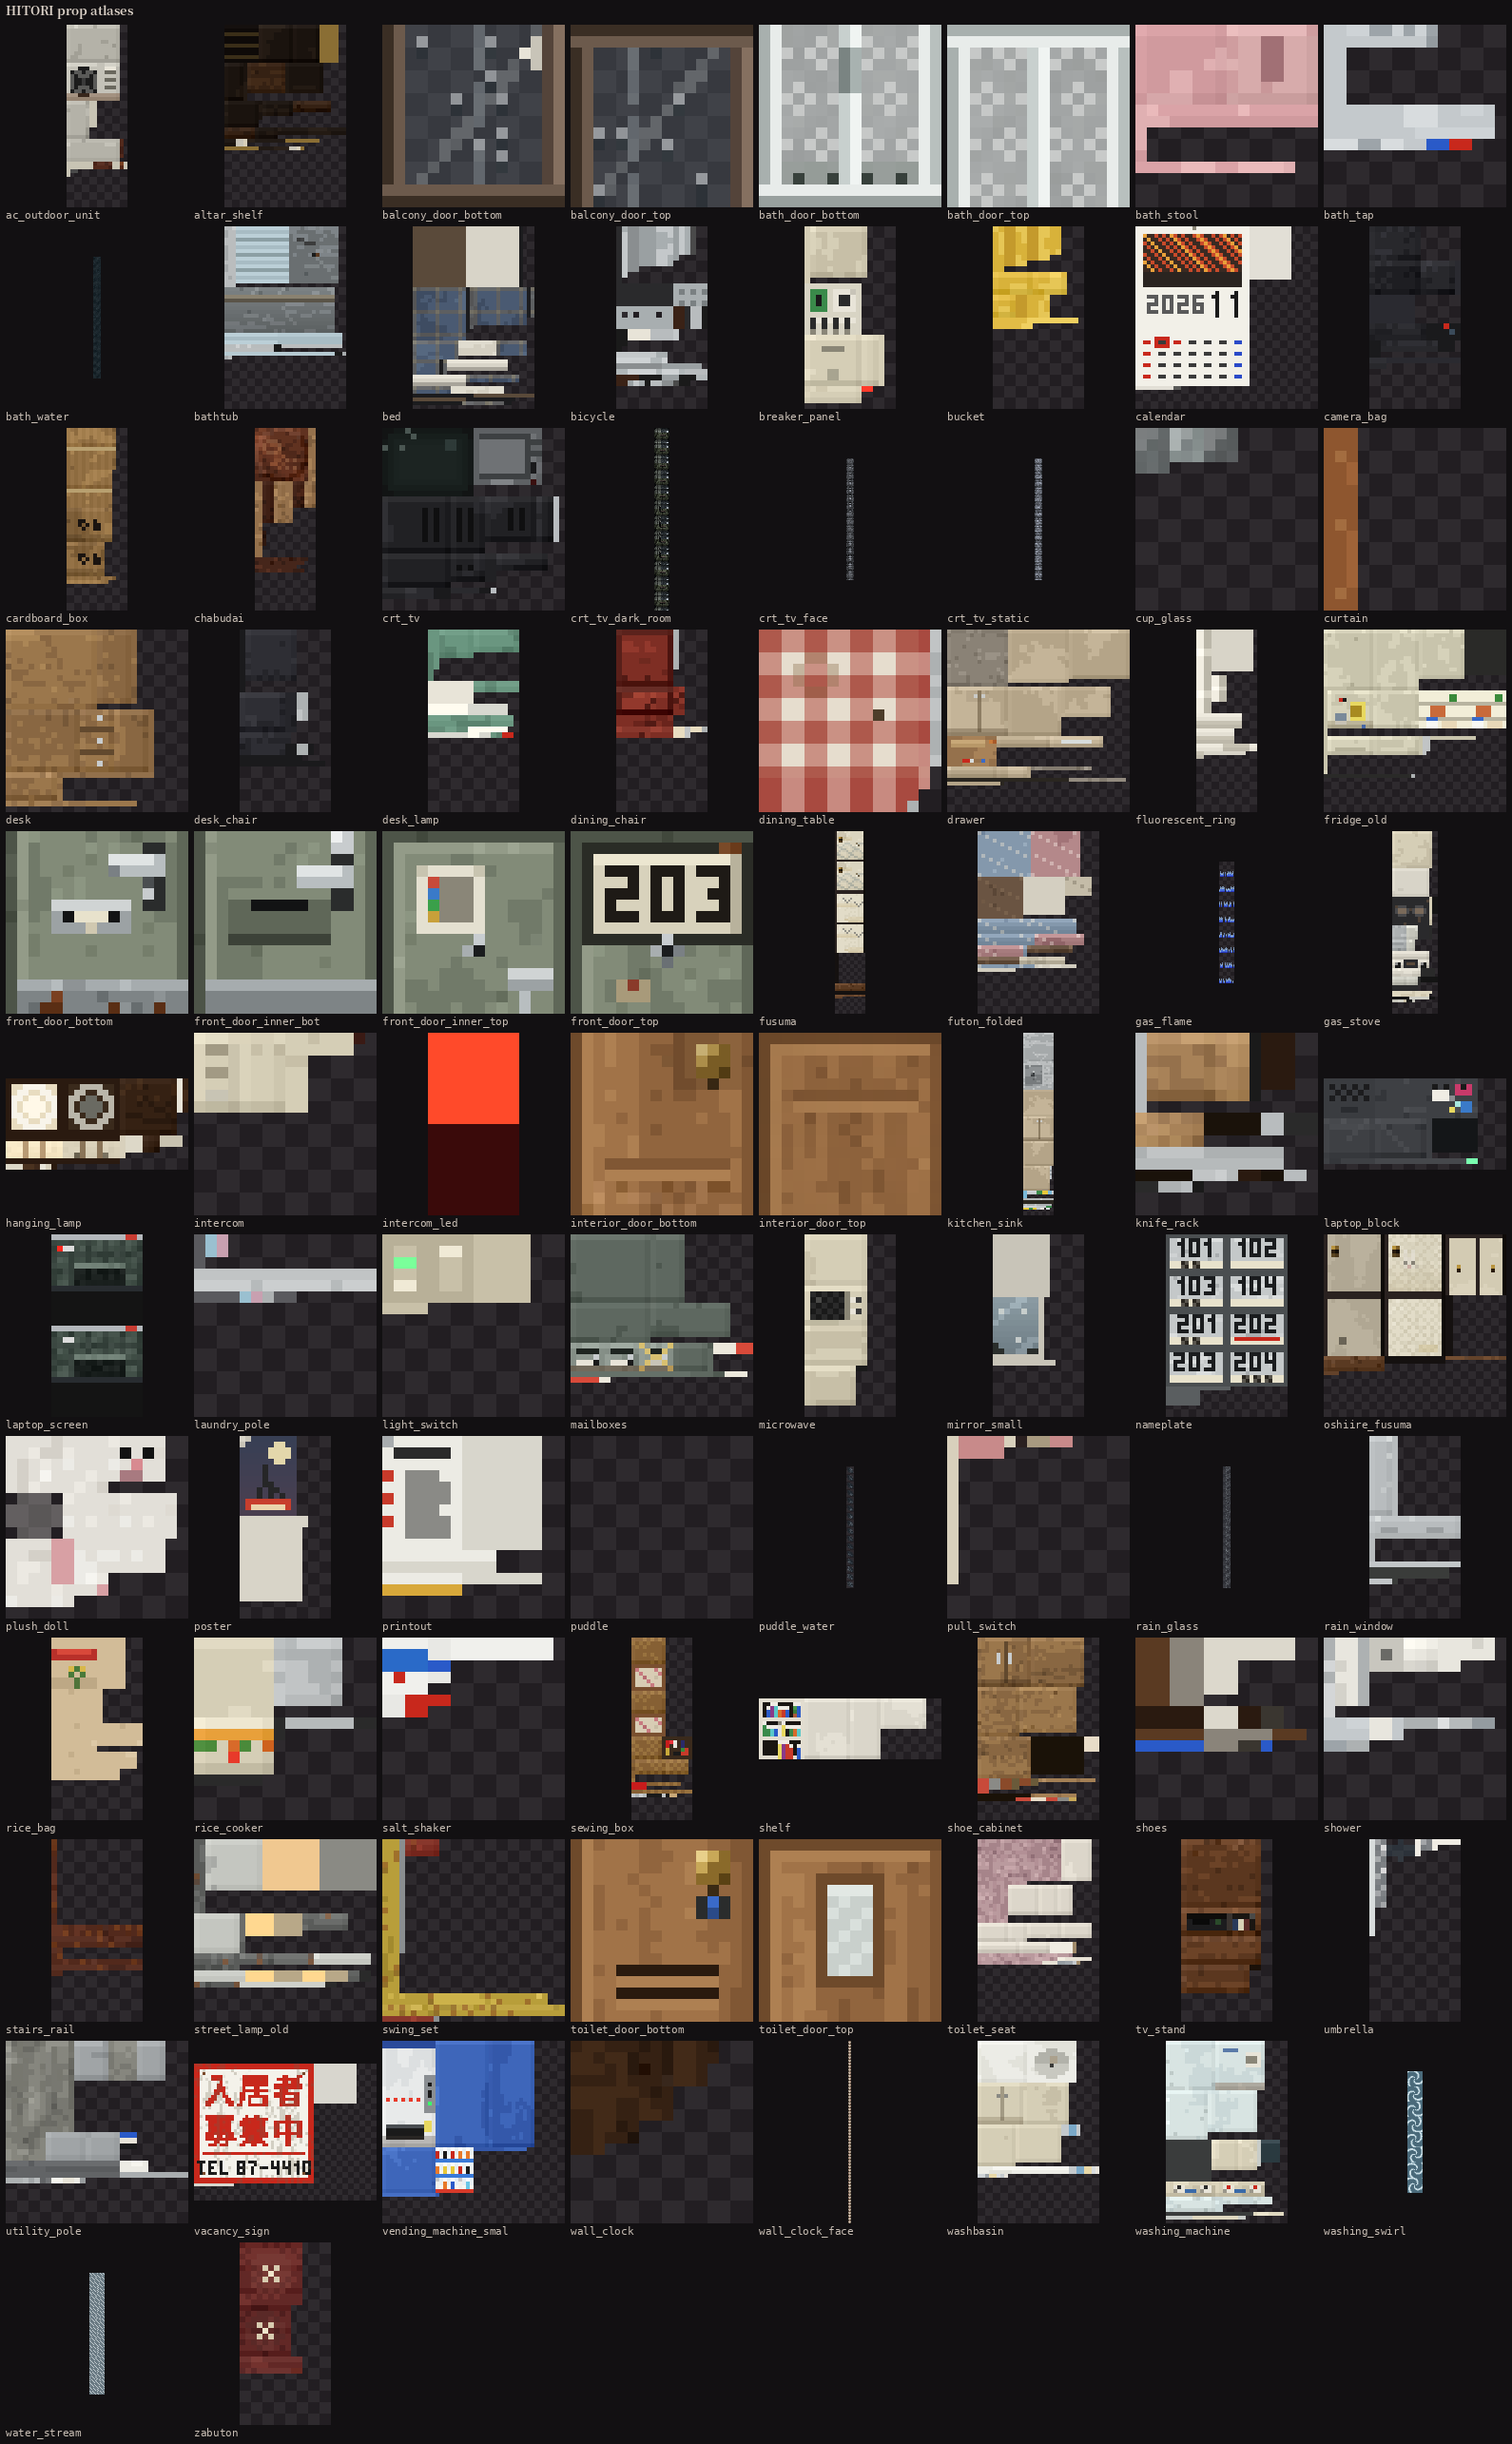
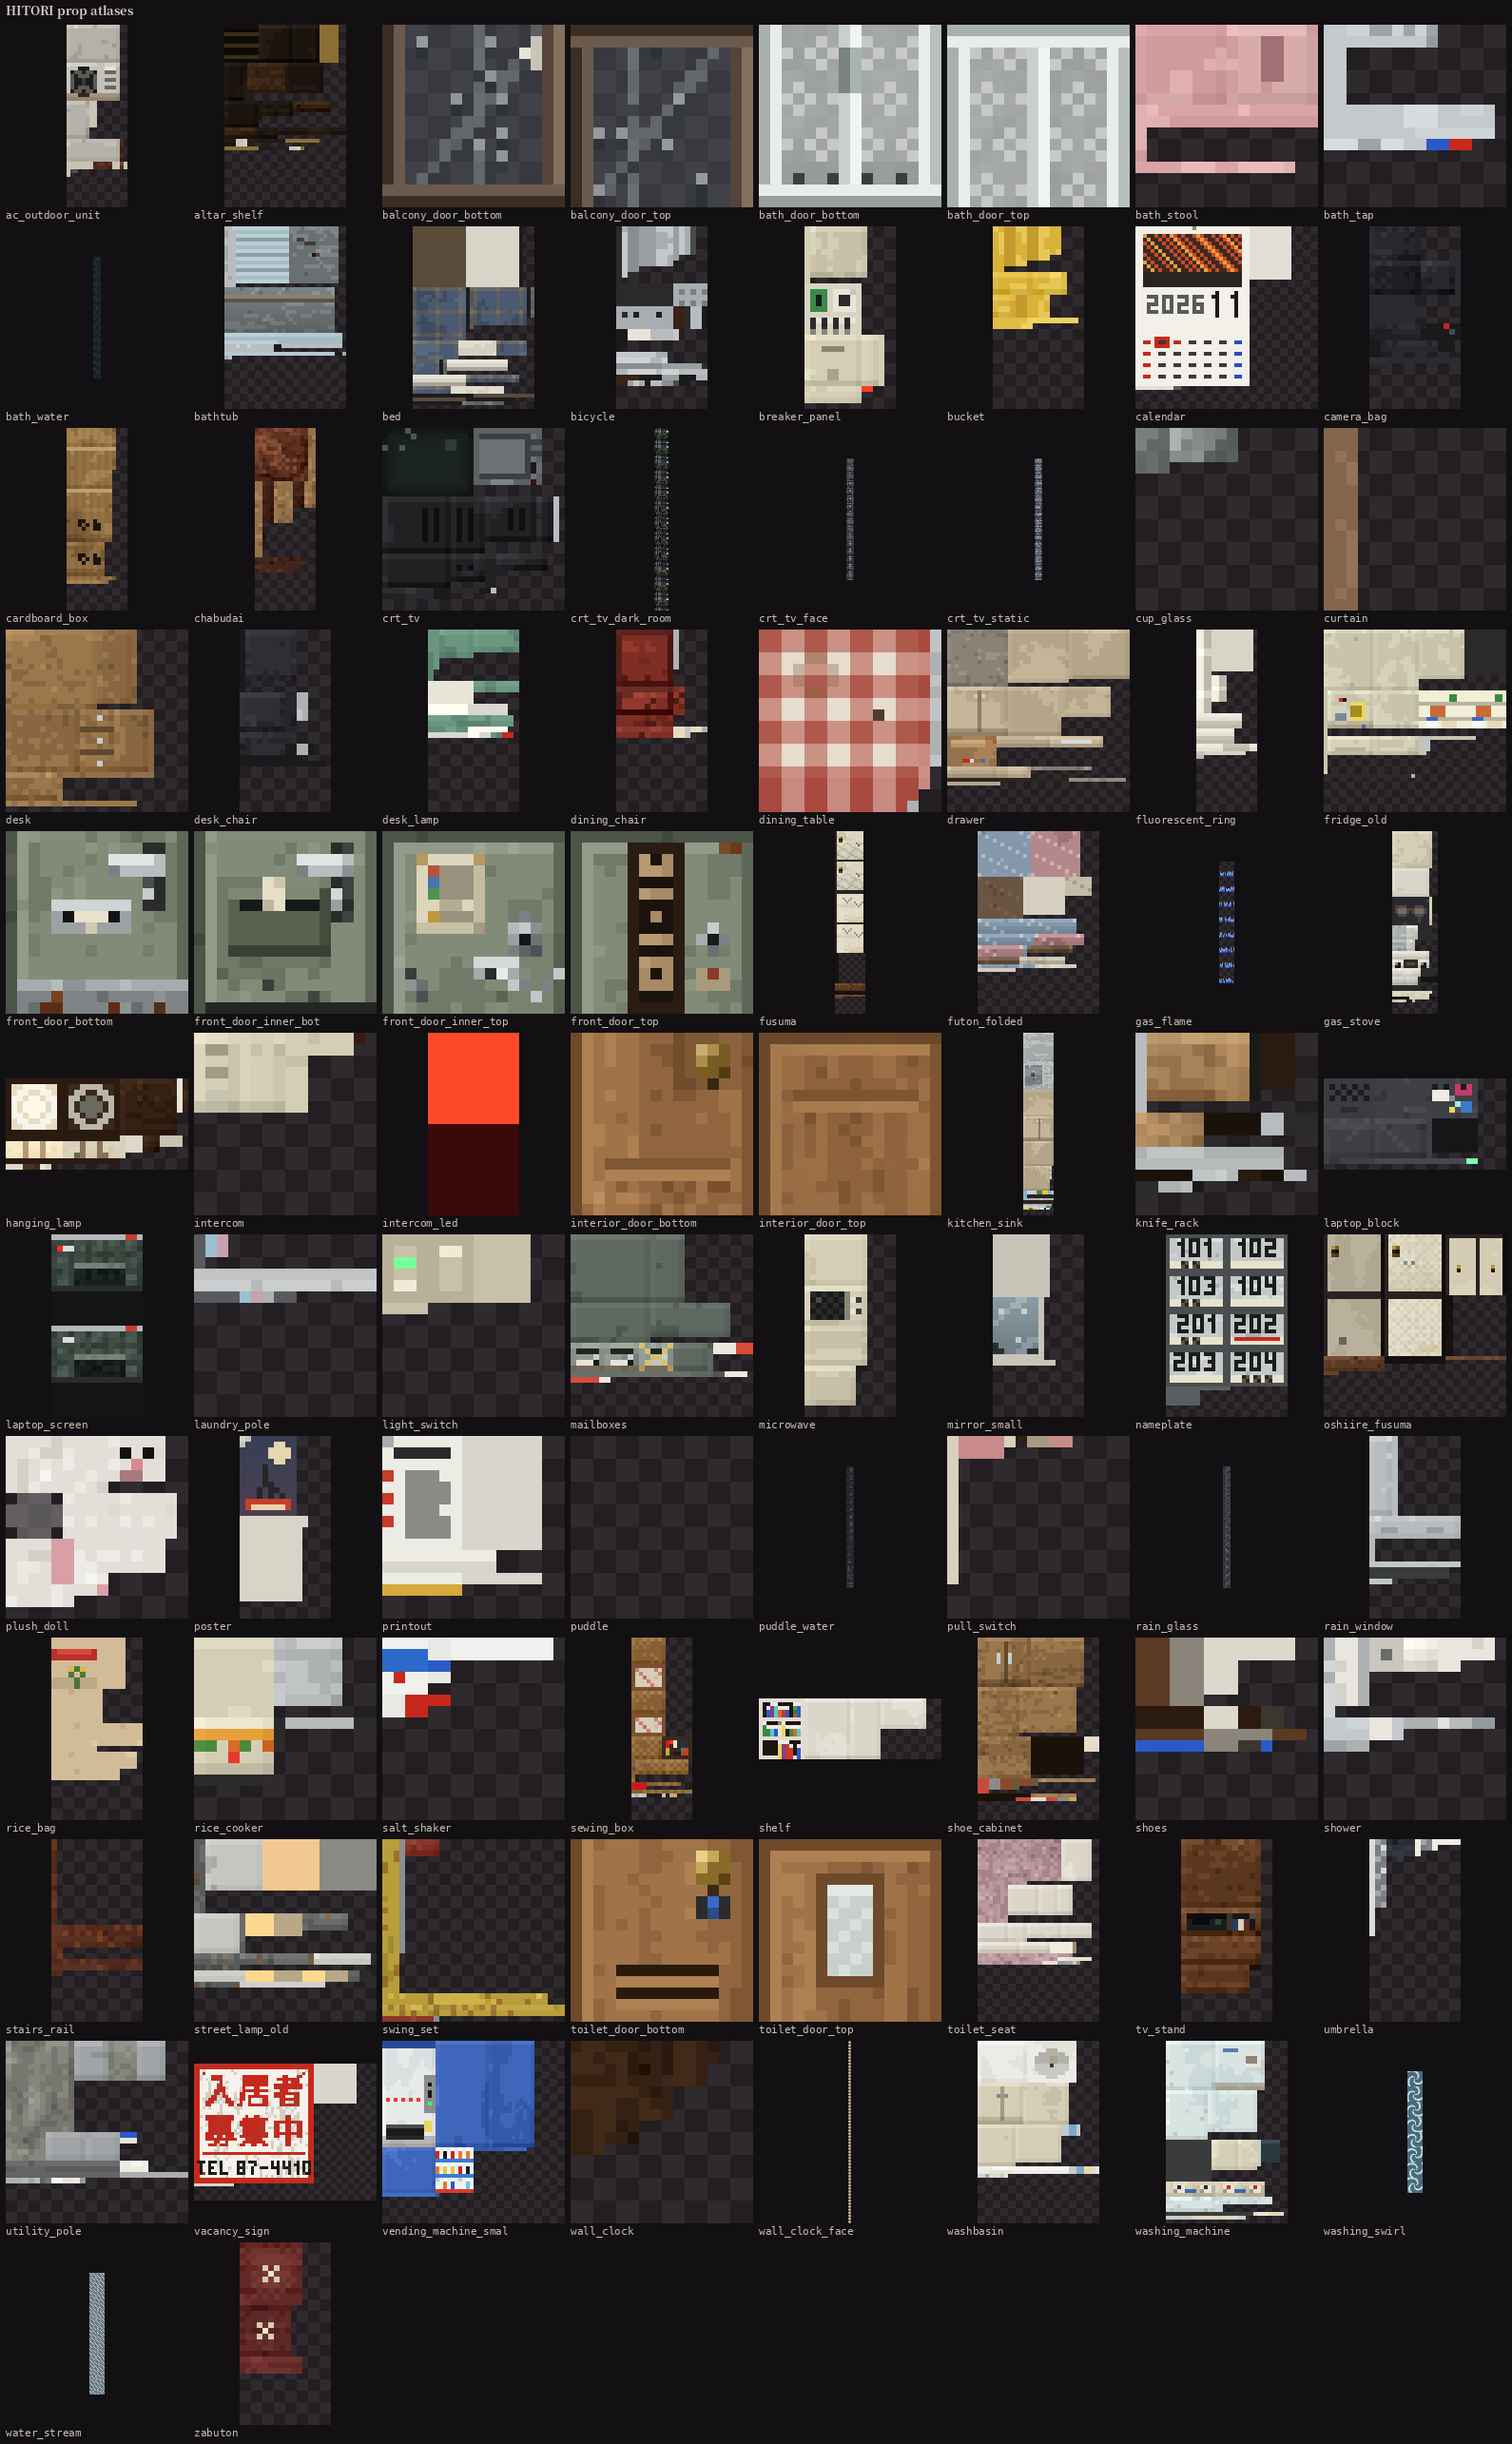
Art: the genkan side of 203's steel door (front_door_inner_bottom/_top) for the world's two-faced door model
- inner top: the eyepiece of the peephole, the door chain hooked on its slide rail, a yellowed garbage-day sheet
  taped up, a coat hook; inner bottom: the lever with the thumb-turn turned upright, the steel newspaper box behind
  the slot with the flyer's corner, shoe scuffs, the rubber seal. Through-the-leaf parts sit on the outer face's
  columns; nothing reads as text (the inner face shows mirrored with 203's left hinge).
- previews: the scenes render 203's door as the world's two_face_door (other flats: unit_door), the opening at the
  genkan's level; the genkan view now stands on the tiles facing the door; the door line-up shows both faces.
- check.py: the two textures are required (world-only textures).

Claude-Session: https://claude.ai/code/session_017h8AWA8SMb3MbjFEftA5Gv

Changed region(s): [[0.2774, 0.3424, 0.5239, 0.4358], [0.1233, 0.3424, 0.2465, 0.4358], [0.8629, 0.1556, 0.9245, 0.249]]

diff --git a/tools/art/hk_scene.py b/tools/art/hk_scene.py
@@ -95,11 +95,37 @@ def vanilla_door(tex, hinge='left'):
                       'east': {'uv': [16, 0, 0, 16] if left else [0, 0, 16, 16], 'texture': '#b'}}}]}
 
 
-def door(S, name, x, y, z, facing, hinge='left'):
-    """A closed vanilla-style door (blockstate y rotation of gen_assets: east 0, south 90, west 180, north 270)."""
+def two_face_door(outer, inner, hinge='left', opened=False):
+    """The world's front_door model (gen_assets.two_face_door): the vanilla 3 px panel with #outer on its west face
+    (outside when closed) and #inner on its east face. Opened, the panel's faces swap (the blockstate turns the
+    panel a quarter the other way round its hinge), so #outer goes east and #inner west."""
+    left = (hinge == 'left') != opened
+    ou = [0, 0, 16, 16] if left else [16, 0, 0, 16]
+    iu = [16, 0, 0, 16] if left else [0, 0, 16, 16]
+    w, e = ('#i', '#o') if opened else ('#o', '#i')
+    to, ti = 'hitori:block/' + outer, 'hitori:block/' + inner
+    return {'textures': {'o': to, 'i': ti, 'particle': to}, 'render_type': 'minecraft:cutout', 'elements': [{
+        'from': [0, 0, 0], 'to': [3, 16, 16],
+        'faces': {'west': {'uv': ou, 'texture': w}, 'east': {'uv': iu, 'texture': e},
+                  'north': {'uv': [0, 0, 3, 16], 'texture': '#o'}, 'south': {'uv': [13, 0, 16, 16], 'texture': '#o'},
+                  'up': {'uv': [0, 0, 3, 16], 'texture': '#o'}, 'down': {'uv': [13, 0, 16, 16], 'texture': '#o'}}}]}
+
+
+def door(S, name, x, y, z, facing, hinge='left', opened=False):
+    """A vanilla-style door (blockstate y rotation of gen_assets: east 0, south 90, west 180, north 270; opened +90
+    for a left hinge, +270 for a right one). front_door has two faces (the world's two_face_door); unit_door is the
+    world's door of the other flats (apartment_door_metal on both halves)."""
     deg = {'east': 0, 'south': 90, 'west': 180, 'north': 270}[facing]
+    if opened:
+        deg = (deg + (90 if hinge == 'left' else 270)) % 360
     for k, half in enumerate(('bottom', 'top')):
-        S.extra.append((vanilla_door(f'{name}_{half}', hinge), place_deg(x, y + k, z, deg)))
+        if name == 'front_door':
+            m = two_face_door(f'front_door_{half}', f'front_door_inner_{half}', hinge, opened)
+        elif name == 'unit_door':
+            m = vanilla_door('apartment_door_metal', hinge)
+        else:
+            m = vanilla_door(f'{name}_{half}', hinge)
+        S.extra.append((m, place_deg(x, y + k, z, deg)))
 
 
 def stairs_model(tex):
@@ -214,8 +240,9 @@ def apartment(S, x0=0, x1=11, z0=0, z1=13, ceiling=True, tatami_axis=None):
             # wall-ish cells: build 3 high, each face facing a room gets that room's wall texture
             openings = {'d': 2, 'D': 2, 'f': 2, 'W': 2}
             hole = openings.get(ch, 0)
+            lo = -1 if ch == 'D' else 0             # the front door stands on the genkan's level, a step down
             for y in range(-1, 4):
-                if y >= 0 and y < hole:
+                if lo <= y < lo + hole:
                     continue
                 faces = {}
                 for f, (dx, _, dz) in NB.items():
@@ -227,14 +254,16 @@ def apartment(S, x0=0, x1=11, z0=0, z1=13, ceiling=True, tatami_axis=None):
                     if nrm is None:
                         faces[f] = H + (OUTSIDE if nb is None else 'plaster_wall')
                     else:
-                        t = nrm.get('lower') if (y == 0 and nrm.get('lower')) else nrm['wall']
+                        t = nrm.get('lower') if (y == nrm.get('low', 0) and nrm.get('lower')) else nrm['wall']
                         faces[f] = H + t
                 S.cube(x, y, z, H + 'plaster_wall', **faces)
     # floors under the wall openings
     for z in range(z0, z1 + 1):
         for x in range(x0, x1 + 1):
-            if cell(x, z) in 'dDfW':
+            if cell(x, z) in 'dfW':
                 S.cube(x, -1, z, H + 'old_flooring')
+            elif cell(x, z) == 'D':
+                S.cube(x, -2, z, H + 'genkan_tile')
 
 
 def balcony_pane(S, x, y, z):
@@ -436,8 +465,10 @@ def scene_genkan():
     umbrella, the intercom and the breaker panel high on the wall; the hall's mirror."""
     S = full203()
     S.light((4.5, 2.6, 2.5), (1.0, 0.9, 0.75), 0.7, 3.0)
-    eye, tgt = (4.7, 1.62, 2.7), (2.0, -0.1, 0.6)
-    return pair(S.render(eye, tgt, fov=78), S.render(eye, tgt, night=True, exposure=1.6, fov=78), 'scene_genkan')
+    S.light((2.6, 1.3, 1.6), (1.0, 0.92, 0.8), 0.5, 2.0)          # the genkan's bare bulb
+    # standing on the genkan tiles with your back to the step, facing the door (its inner face: the chain is on)
+    eye, tgt = (3.45, 0.66, 2.8), (1.9, 0.05, 0.2)
+    return pair(S.render(eye, tgt, fov=80), S.render(eye, tgt, night=True, exposure=1.6, fov=80), 'scene_genkan')
 
 
 def scene_exterior():
@@ -480,8 +511,8 @@ def scene_exterior():
             S.cube(x, y, -3, H + 'concrete')
     for ux, k in doors2.items():
         if xa <= ux <= xb:
-            door(S, 'front_door', ux, 0, 0, 'north')
-            door(S, 'front_door', ux, -5, 0, 'north')
+            door(S, 'front_door' if k == 2 else 'unit_door', ux, 0, 0, 'south')     # 203's own door, outside north
+            door(S, 'unit_door', ux, -5, 0, 'south')
             S.model(f'nameplate_{4 + k}', ux + 1, 1, -1, 'south')
             S.model(f'nameplate_{k}', ux + 1, -4, -1, 'south')
             for wx in (ux + 4, ux + 5):
@@ -614,10 +645,11 @@ def scene_doors():
         S.cube(x, -1, -1, H + 'old_flooring')
         for y in range(0, 3):
             S.cube(x, y, 1, H + 'plaster_wall', north=H + ('wood_wainscot' if y == 0 else 'plaster_wall'))
-    names = ['front_door', 'interior_door', 'toilet_door', 'bath_door']
-    for i, d in enumerate(names):
-        for k, half in enumerate(('bottom', 'top')):
-            S.extra.append((vanilla_door(f'{d}_{half}'), place_deg(i * 1.5 - 0.5, k, 0, 270)))
+    # 203's steel door from the corridor (its outer face) and from the genkan (its inner face), then the others
+    entries = [('front_door', 'south', 13 / 16), ('front_door', 'north', 0), ('interior_door', 'north', 0),
+               ('toilet_door', 'north', 0), ('bath_door', 'north', 0)]
+    for i, (d, f, dz) in enumerate(entries):
+        door(S, d, i * 1.2 - 0.9, 0, dz, f)
     balcony_pane(S, 6.5, 0, -0.55)
     S.model('fusuma_lower_0', 7.5, 0, -0.45, 'north') if False else None
     for k, (nm, x) in enumerate((('fusuma', 7.0), ('oshiire_fusuma', 8.0))):

diff --git a/tools/art/hk_surfaces.py b/tools/art/hk_surfaces.py
@@ -698,7 +698,88 @@ def front_door_bottom():
     return a
 
 
-WOODPRINT = ramp(['#5a3c22', '#6e4a2b', '#805734', '#91653e', '#a17348', '#ae8052', '#ba8d5e'], 7)
+# The genkan side of 203's door (the world's two_face_door: #inner on the panel's other face). Same layout rule as the
+# outer face - hinge left, handle right, and everything that goes through the leaf (peephole, lever spindle, the
+# newspaper slot) on the same texture columns as outside. With 203's hinge on the left the inner face is seen
+# mirrored, so nothing here may read as text.
+@door_tex('front_door_inner_top')
+def front_door_inner_top():
+    """Upper half, inside: the peephole's eyepiece, the door chain hooked (sagging from its slide rail to the jamb
+    on the latch side - it is 3 a.m. and you are in), a garbage-day sheet taped up long ago (yellowed paper, the
+    colour-coded rows of 燃える/燃えない/資源/びん, the tape gone brown) and a coat hook."""
+    a = _steel_leaf(4121, True)
+    x, y = xy()
+    # cleaner than outside, but greasy around the handle side where hands go
+    dl(a, -0.03, (x >= 10) & (y >= 9) & (wrapn(4122, beta=1.2) > 0.2))
+    # the eyepiece: a wider chrome ring around a dark lens, a glint, the little swing cover's hinge above
+    for (cx, cy, c) in ((11, 9, '#9aa0a2'), (13, 9, '#6e7476'), (12, 8, '#c4c9cc'), (12, 10, '#5e6466'),
+                        (11, 8, '#b4babc'), (13, 8, '#8a9092'), (11, 10, '#7a8082'), (13, 10, '#4e5456')):
+        px(a, cx, cy, c)
+    px(a, 12, 9, '#141618')
+    px(a, 12, 7, '#7a8084')
+    # the chain's slide rail (a chrome plate with a dark slot) and the chain hooked across to the jamb (x 15)
+    rect(a, 8, 11, 11, 12, '#a4aaac')
+    hline(a, 8, 11, 11, '#d4d8d8')
+    hline(a, 9, 10, 12, '#2a2c2e')
+    px(a, 10, 12, '#e6eaea')                     # the knob in the slot
+    for (cx, cy) in ((11, 13), (12, 13), (13, 14), (14, 13), (15, 12)):
+        px(a, cx, cy, '#c2c8ca' if (cx % 2) else '#7c8284')
+    # the garbage-day sheet: yellowed paper, four colour rows (a dot and a ruled line each), brown tape corners
+    rect(a, 3, 2, 8, 8, '#ddd6bc')
+    vline(a, 8, 3, 8, '#c4bca0')
+    hline(a, 3, 8, 8, '#c8c0a4')
+    for yy, c in zip((3, 4, 5, 7), ('#b8503e', '#4a74b0', '#4a9452', '#c0983a')):
+        px(a, 4, yy, c)
+        hline(a, 5, 7, yy, '#9a927e')
+    hline(a, 5, 6, 6, '#b4ac94')
+    for (cx, cy) in ((3, 2), (8, 2)):
+        px(a, cx, cy, '#b49a62')
+    px(a, 8, 8, '#a89a7c')                       # the lower corner curling off the steel
+    # a small coat hook screwed on near the hinge, its shadow
+    px(a, 2, 12, '#3a3c3a')
+    px(a, 2, 13, '#8e9496')
+    px(a, 3, 13, '#6a7072')
+    px(a, 3, 14, '#4a5052')
+    return a
+
+
+@door_tex('front_door_inner_bottom')
+def front_door_inner_bottom():
+    """Lower half, inside: the lever and its tall escutcheon with the deadbolt's thumb-turn turned upright (locked),
+    the steel newspaper box behind the slot with the flyer's corner showing, scuffs from shoes, the rubber seal."""
+    a = _steel_leaf(4131, False)
+    x, y = xy()
+    # the escutcheon (same spindle as the outer lever) and the lever pointing toward the hinge
+    rect(a, 12, 1, 13, 7, '#2a2c2c')
+    vline(a, 13, 1, 7, '#3e4242')
+    rect(a, 9, 2, 13, 3, '#b8bec0')
+    hline(a, 9, 12, 2, '#e0e4e4')
+    px(a, 9, 3, '#7a8084')
+    px(a, 13, 3, '#8a9092')
+    # the thumb-turn below it, upright = locked
+    px(a, 12, 5, '#d4d8d8')
+    px(a, 12, 6, '#9aa0a2')
+    px(a, 13, 6, '#2a2c2c')
+    # the newspaper box behind the slot (x 4..10 y 6..8 outside): a steel pocket, open at its top, a flyer in it
+    rect(a, 3, 5, 11, 10, '#59614f')
+    hline(a, 3, 11, 5, '#7e8873')
+    vline(a, 11, 5, 10, '#454c3e')
+    hline(a, 3, 11, 10, '#3a4034')
+    hline(a, 4, 10, 6, '#16181a')                # the dark mouth of the box
+    rect(a, 6, 4, 7, 6, '#e6dfc8')               # the flyer's corner standing up out of it
+    px(a, 7, 4, '#cfc6ac')
+    px(a, 6, 6, '#bfb69c')
+    dl(a, -0.06, (y == 11) & (x >= 4) & (x <= 11))   # the box's shadow on the leaf
+    # scuffs where shoes hit it, the rubber seal along the bottom
+    sc = (wrapn(4132, beta=1.0) > 0.45) & (y >= 12) & (y <= 14) & (x >= 2) & (x <= 13)
+    dl(a, -0.08, sc)
+    hline(a, 1, 15, 15, '#232624')
+    px(a, 6, 13, '#3c3f3a')
+    px(a, 10, 14, '#41443f')
+    return a
+
+
+WOODPRINT =ramp(['#5a3c22', '#6e4a2b', '#805734', '#91653e', '#a17348', '#ae8052', '#ba8d5e'], 7)
 
 
 def _wood_leaf(seed, top):

diff --git a/tools/art/check.py b/tools/art/check.py
@@ -34,7 +34,8 @@ PROPERTY_WORDS = {'on', 'channel', 'lit', 'swing', 'closed', 'water', 'lid', 'ru
 
 # ---------------------------------------------------------------------------------------------- expectations
 VANILLA_DOORS = ['front_door', 'interior_door', 'toilet_door', 'bath_door', 'balcony_door']
-WORLD_EXTRA_TEXTURES = []
+# textures only the world's own models use (gen_assets.two_face_door: the genkan side of 203's steel door)
+WORLD_EXTRA_TEXTURES = ['front_door_inner_bottom', 'front_door_inner_top']
 DOOR_ITEM_SPRITES = VANILLA_DOORS + ['fusuma', 'oshiire_fusuma']
 
 
